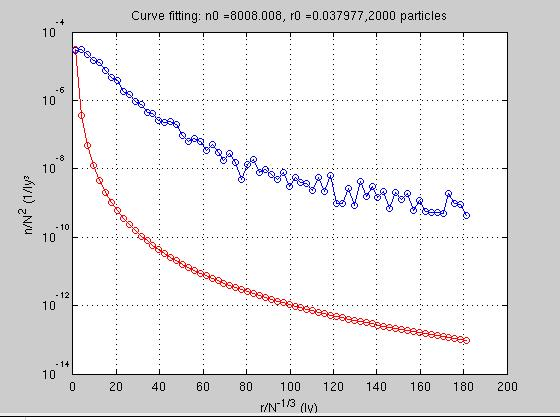
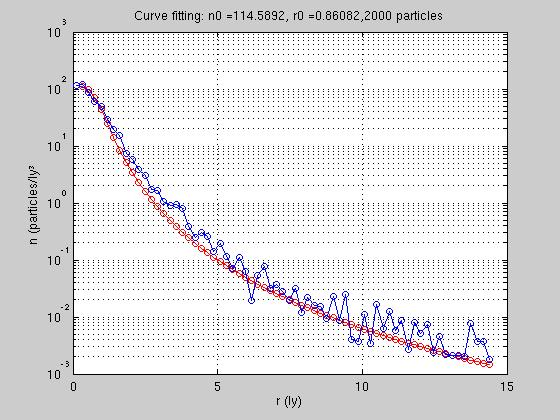
fixed the curve fitting :D

diff --git a/Project5/Project5.cpp b/Project5/Project5.cpp
@@ -16,15 +16,30 @@ using namespace std;
 // returns a vector: [ n0, r0, n0/N^2r0, /N^(-1/3) ]
 vec radialDistFitLSq(mat radialDist, int N, int nNR)
 {
-	// these factors are educated guesses as to where we will find the best match
+	// search from 0 to this factor times the estimated value
 	const double nFact = 2.0;
 	const double rFact = 2.0;
+
+	// n in first bin
+	const double nFirst = radialDist(0, 2);
 
 	// range to search
 	double minN0 = 0.0;
 	double minR0 = 0.0;
 	double maxN0 = nFact * radialDist(0, 2); // use the first bin as a starting point
-	double maxR0 = rFact * radialDist(0, 0); // use the first bin as a starting point
+
+	// find the first bin where n(r) has dropped to less than half of the initial value
+	// (r = r0 gives n = 0.5 * n0, after all)
+	double nSearch = nFirst;
+	int i = 1; // start search at second bin
+	while ((nSearch > (0.5 * nFirst)) && (i < radialDist.n_rows)) // assume the density decreases
+	{
+		nSearch = radialDist(i, 2);
+		i++;
+	}
+
+	// there! the index i is now a good place to look for r0
+	double maxR0 = rFact * radialDist(i, 0);
 	
 	// step size for n0 and r0 trials, respectively
 	double deltaN = (maxN0 - minN0) / (nNR - 1.0);
@@ -184,7 +199,7 @@ int _tmain(int argc, _TCHAR* argv[])
 	const double AVG_BIN = 20.0; // avg. number of particles in each bin (curve fitting)
 
 	// initialization & time steps (run many with different n/epsilon, same total mass)
-	const int N_SIMS = 3; // number of simulations to run (set to 1 to run just once)
+	const int N_SIMS = 1; // number of simulations to run (set to 1 to run just once)
 	const int N_END = 300; // max N for last sim (ignored if N_SIMS == 1 or if EPSILON_LOOP == true)
 	const double EPSILON_END = 0.15; // max epsilon for last sim (ignored if N_SIMS == 1 or if EPSILON_LOOP == false)
 	const double N_STEPS_END = 10000; // max # of time steps
@@ -203,7 +218,7 @@ int _tmain(int argc, _TCHAR* argv[])
 	// flags
 	const bool EPSILON_LOOP = false; // vary epsilon instead of n
 	const bool STEP_LOOP = false; // vary time step instead of n
-	const bool USE_LEAPFROG = true; // use Leapfrog method
+	const bool USE_LEAPFROG = false; // use Leapfrog method
 	const bool USE_RK4 = false; // use Runge-Kutta method
 	const bool USE_EULER = false; // use Euler-Cromer method
 	const bool DEBUG = false; // for debugging only
@@ -212,6 +227,19 @@ int _tmain(int argc, _TCHAR* argv[])
 
 	if (!BENCHMARK)
 	{
+		// very cheesy, remove later :P
+		mat radial;
+		bool status = radial.load("C:\\Users\\OddPetter\\Dropbox\\Studier\\comp phys\\projects\\Project5\\Project5\\input.dat", auto_detect);
+		if (status == true)
+		{
+			vec testFit = radialDistFitLSq(radial, 2000, N_NR);
+			testFit.save("2000recovery.dat", raw_ascii);
+		}
+		else
+		{
+			// error message
+		}
+
 		#pragma region Initialize Series
 
 		int deltaN = 0;

diff --git a/Project5/CURVEFIT_2/PlotStuff2.m b/Project5/CURVEFIT_2/PlotStuff2.m
@@ -1,7 +1,7 @@
 fileToOpen = strcat('plotLeapfrog','.dat');
 fidPosi = fopen(fileToOpen);
-nbRows = 4;
-Plot_File = fscanf(fidPosi,'%g',[18 nbRows]).';
+nbRows = 3;
+Plot_File = fscanf(fidPosi,'%g',[20 nbRows]).';
 fclose(fidPosi);
 bWantToSaveJPEG = true;
 filename = strcat('fitscaling_n0.jpeg');
@@ -16,12 +16,12 @@ end
 % Init of the vector holding the number of bound particles
 nbBounds = [1 (nbRows)];
 for i = 1: (nbRows)
-    nbBounds(i) = Plot_File(i,14);
+    nbBounds(i) = Plot_File(i,15);
 end
 
 rbBounds = [1 (nbRows)];
 for i = 1: (nbRows)
-    rbBounds(i) = Plot_File(i,15);
+    rbBounds(i) = Plot_File(i,16);
 end
 
 % And then we plot !
@@ -32,7 +32,7 @@ hold off;
 title('Scaling of n0 with N');
 xlabel('N');
 ylabel('n0 / N²');
-axis([0, 2250, 0, 0.01]);
+%axis([0, 2250, 0, 0.01]);
 grid on;
 
 % And eventually save the plot
@@ -51,7 +51,7 @@ hold off;
 title('Scaling of r0 with N');
 xlabel('N');
 ylabel('r0 / N^(^-^1^/^3^)');
-axis([0, 2250, 0, 1]);
+%axis([0, 2250, 0, 1]);
 grid on;
 
 % And eventually save the plot

diff --git a/Project5/CURVEFIT_2/PlotStuff.m b/Project5/CURVEFIT_2/PlotStuff.m
@@ -1,11 +1,11 @@
 fileLeap = strcat('plotLeapfrog.dat');
 fidLeap = fopen(fileLeap);
-Plot_File = fscanf(fidLeap,'%g',[18 4]).';
+Plot_File = fscanf(fidLeap,'%g',[20 3]).';
 fclose(fidLeap);
 
-simID = 3;
-nbParticles = 2000;
-nbSteps = 67;
+simID = 2;
+nbParticles = 300;
+nbSteps = 11;
 fileRad = strcat('radial_after_',num2str(simID),'_leapfrog.dat');
 fidRad = fopen(fileRad);
 Rad_File = fscanf(fidRad,'%g',[3 nbSteps]).';
@@ -23,8 +23,8 @@ for i = 1: (nbSteps)
     rN13(i) = r(i) / (nbParticles^(-1/3));
 end
 
-n0 = Plot_File(4,12);
-r0 = Plot_File(4,13);
+n0 = Plot_File(3,13);
+r0 = Plot_File(3,14);
 
 n = [1 (nbSteps)];
 nN2 = [1 (nbSteps)];
@@ -80,6 +80,6 @@ if (bWantToSaveJPEG == true)
     frame = getframe(4);
     im = frame2im(frame);
     [A,map] = rgb2ind(im,256); % To avoid 3D pictures
-    imwrite(A,map,filename,'jpeg'); 
+    imwrite(A,map,filename2,'jpeg'); 
 end
     

diff --git a/Project5/CURVEFIT_2/PlotStuff3.m b/Project5/CURVEFIT_2/PlotStuff3.m
@@ -1,7 +1,7 @@
 fileToOpen = strcat('plotLeapfrog','.dat');
 fidPosi = fopen(fileToOpen);
-nbRows = 4;
-Plot_File = fscanf(fidPosi,'%g',[18 nbRows]).';
+nbRows = 7;
+Plot_File = fscanf(fidPosi,'%g',[20 nbRows]).';
 fclose(fidPosi);
 bWantToSaveJPEG = true;
 filename = strcat('avgstd.jpeg');
@@ -15,12 +15,12 @@ end
 % Init of the vector holding the number of bound particles
 avg = [1 (nbRows)];
 for i = 1: (nbRows)
-    avg(i) = Plot_File(i,16);
+    avg(i) = Plot_File(i,17);
 end
 
 std = [1 (nbRows)];
 for i = 1: (nbRows)
-    std(i) = Plot_File(i,17);
+    std(i) = Plot_File(i,18);
 end
 
 % And then we plot !

diff --git a/Project5/CURVEFIT/PlotStuff.m b/Project5/CURVEFIT/PlotStuff.m
@@ -80,6 +80,6 @@ if (bWantToSaveJPEG == true)
     frame = getframe(4);
     im = frame2im(frame);
     [A,map] = rgb2ind(im,256); % To avoid 3D pictures
-    imwrite(A,map,filename,'jpeg'); 
+    imwrite(A,map,filename2,'jpeg'); 
 end
     
